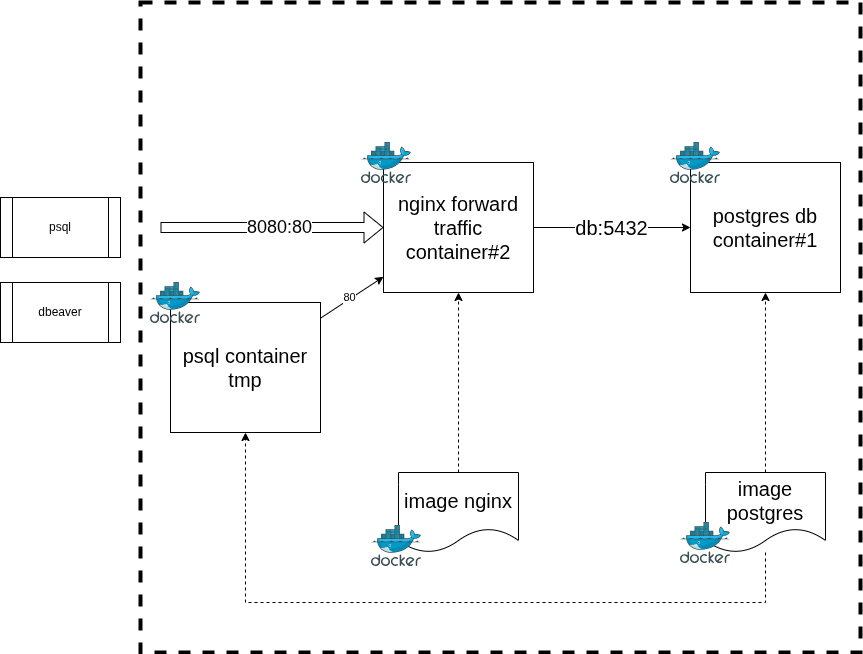
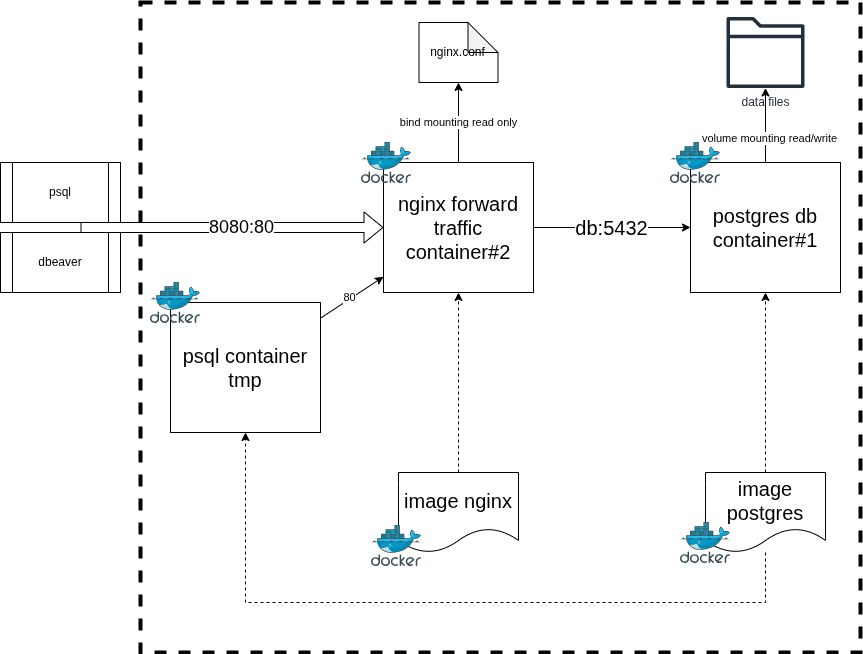
more information on exercice 3

diff --git a/docker.md b/docker.md
@@ -214,7 +214,7 @@ Résumé de l'architecture
 
 Pour configurer le serveur nginx avec une redirection type stream, voir la [documentation officielle](https://nginx.org/en/docs/stream/ngx_stream_core_module.html).
 
-En résumén, cela revient à configurer le serveur avec le bloc de code suivant
+En résumé, cela revient à configurer le serveur avec le bloc de code suivant :
 
 ```
 stream {
@@ -232,8 +232,13 @@ stream {
 }
 ```
 
+Contraintes :
+
+* utiliser un bind mounting pour la configuration nginx
+* uitiliser un volume mounting pour les données de la base de données postgres
+
 ### Solution
 
-Aide : préparer la configuration nginx en amont et utiliser le bind-mounting
+Aide : préparer la [configuration nginx](https://hub.docker.com/_/nginx#customize-configuration) en amont et utiliser le bind-mounting
 
 Etapes à suivre
